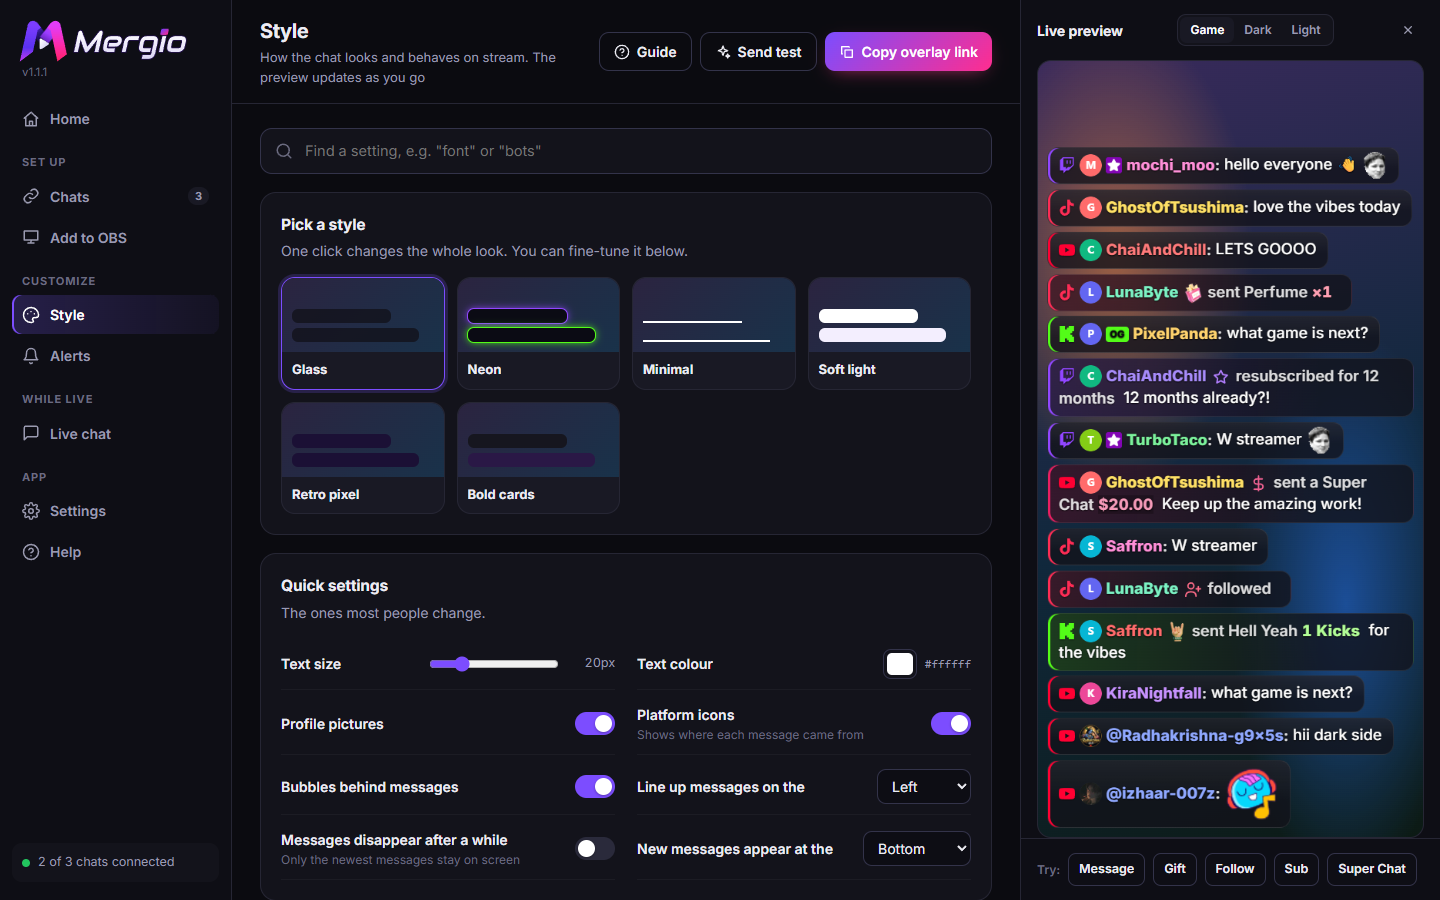
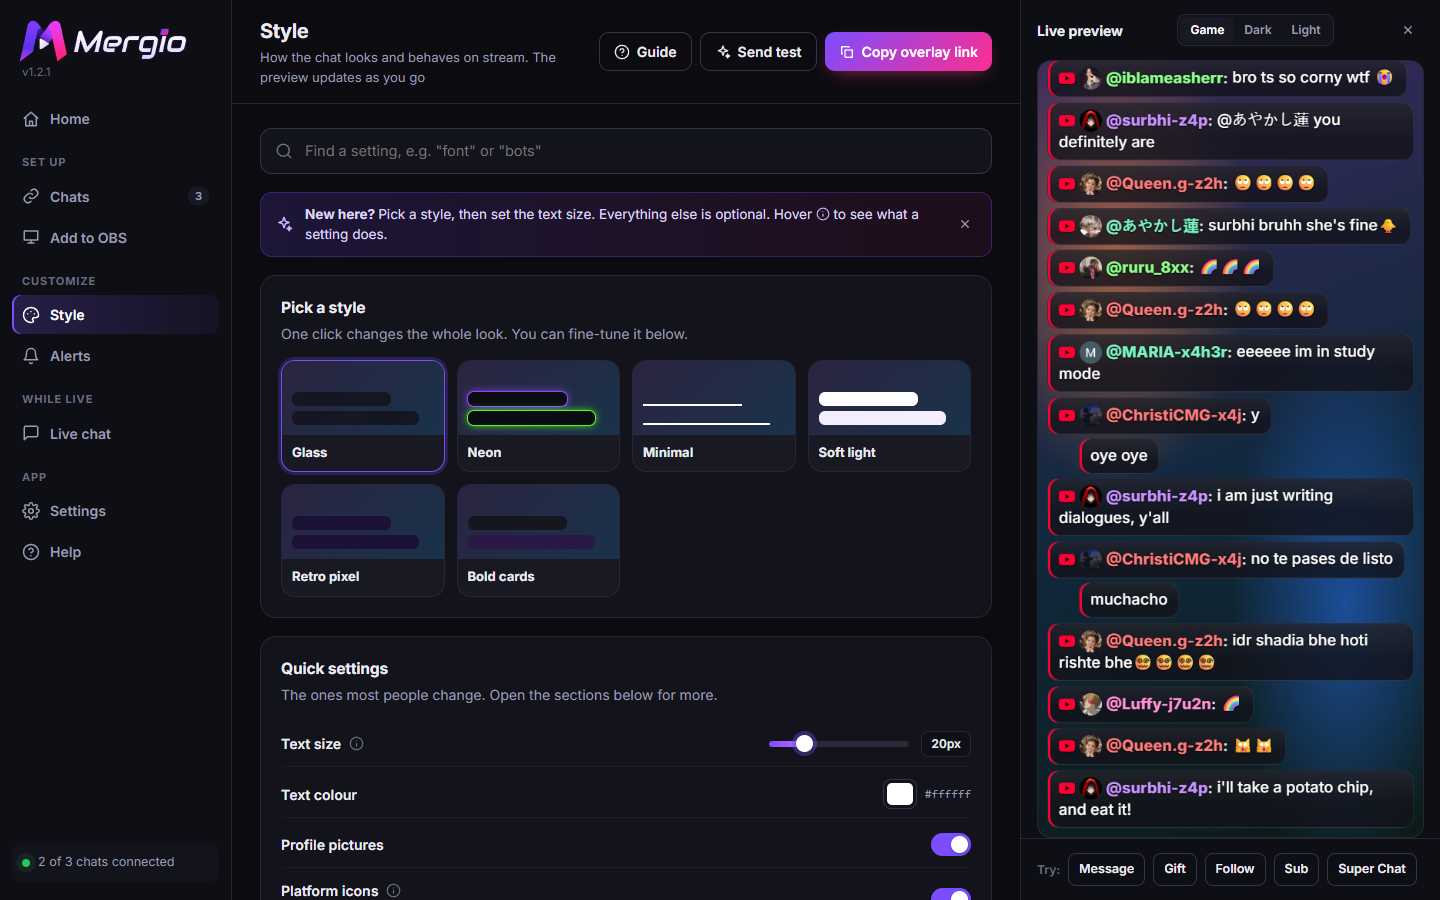
Refresh the Style and Settings screenshots and explain the (i) tips

diff --git a/README.md b/README.md
@@ -178,7 +178,7 @@ Each chat shows its status: **Connected**, **Waiting for you to go live** (it co
 
 Open **Style** and click one of the six looks (Glass, Neon, Minimal, Soft light, Retro pixel, Bold cards). **Quick settings** has the options most people change: text size and colour, profile pictures, platform icons, bubbles, left or right, newest at the top or bottom, and **Messages disappear after a while** (with the number of seconds). Everything else is in folding sections, and the search box finds any setting.
 
-The **live preview** on the right updates instantly; use **Game / Dark / Light** above it to check how it looks over your stream.
+The **live preview** on the right updates instantly; use **Game / Dark / Light** above it to check how it looks over your stream. New to streaming tools? Hover the small **ⓘ** next to a setting for a plain-words explanation. Two- and three-way choices are simple buttons, and longer lists open a dropdown you can also use with the arrow keys.
 
 <div align="center"><img src="docs/guide/03-style.png" alt="The Style page with ready-made looks and quick settings" width="820"></div>
 
